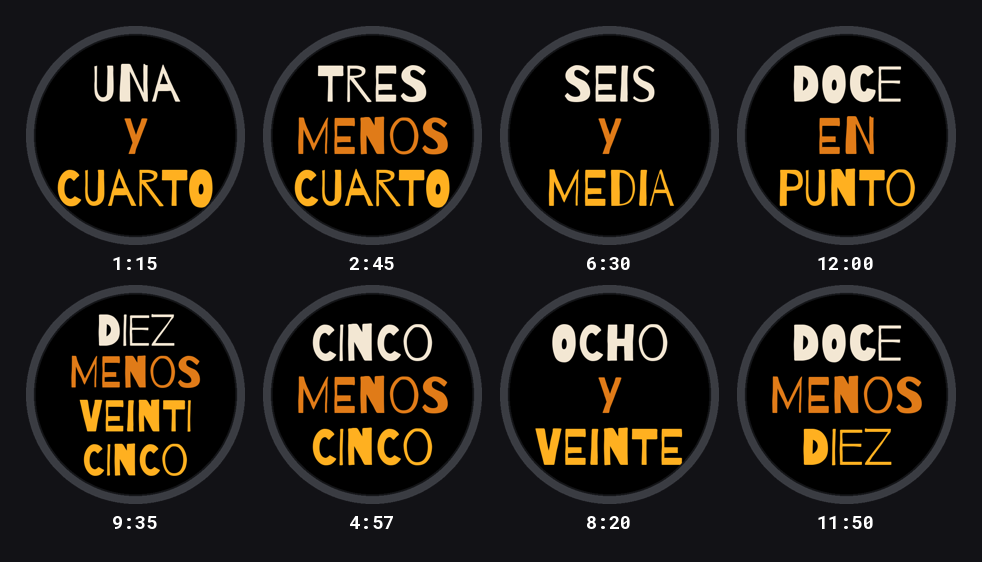
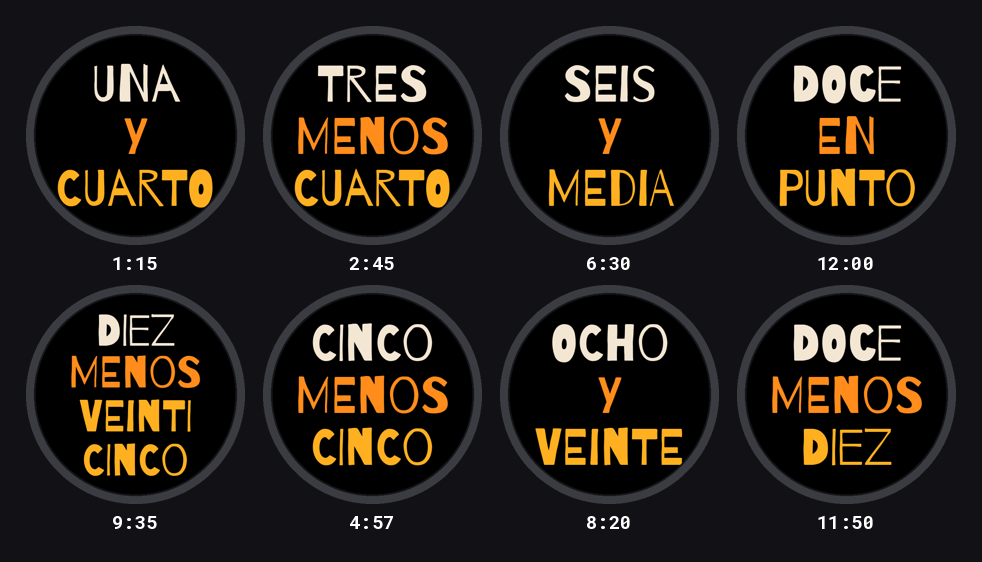
Letras: take the connector amber to full brightness
Same hue, wrung out to the brightest value it holds without desaturating: 61%
luminance against the previous 54%. Going brighter means pulling toward white,
where the connector starts competing with the bone of the hour line.

Claude-Session: https://claude.ai/code/session_01Spqi8874cLT5cy9qNW1EXh

diff --git a/Letras/preview/preview_render.py b/Letras/preview/preview_render.py
@@ -17,7 +17,7 @@ S = 454
 
 # Paleta "hueso y ambar", igual que el .mc
 C_HOUR = (0xF3, 0xE7, 0xD3)
-C_LINK = (0xE0, 0x7B, 0x18)   # ambar quemado
+C_LINK = (0xFF, 0x8C, 0x1B)   # ambar quemado, a tope de brillo
 C_MIN = (0xFF, 0xB0, 0x20)
 
 Y3 = (0.240, 0.500, 0.760)

diff --git a/Letras/README.md b/Letras/README.md
@@ -31,7 +31,7 @@ y cero consumo) y toda la tinta en tres niveles del mismo eje cálido.
 | | Color | Por qué |
 |---|---|---|
 | Hora | `0xF3E7D3` hueso | Lo primero que se lee |
-| Enlace | `0xE07B18` ámbar quemado | «Y» frente a «MENOS» son **media hora** |
+| Enlace | `0xFF8C1B` ámbar quemado | «Y» frente a «MENOS» son **media hora** |
 | Minutos | `0xFFB020` ámbar vivo | El dato que cambia |
 
 **Todas las líneas van al mismo cuerpo**, enlace incluido. Empezó siendo ámbar
@@ -42,9 +42,12 @@ justo en la menos legible.
 
 El enlace se separa del ámbar de los minutos **por el tono**, no por estar
 apagado: bajarle el brillo para diferenciarlo es justo lo que no funcionaba. Los
-tres caen en el mismo eje cálido: hueso → ámbar quemado → ámbar vivo. Si
-quisieras más separación sin salirte de la gama, `0xFF8A3D` (naranja tostado) o
-`0xFF6F5C` (coral) son los escalones siguientes.
+tres caen en el mismo eje cálido: hueso → ámbar quemado → ámbar vivo.
+
+`0xFF8C1B` es el **máximo brillo que admite ese tono sin desaturar** (61% de
+luminancia). Para subir más hay que rebajar la saturación —`0xFF9833` da 65% y
+`0xFFA54D` un 70%—, y ahí el enlace empieza a tirar a melocotón y a competir
+con el hueso de la hora.
 
 ## VEINTICINCO
 
